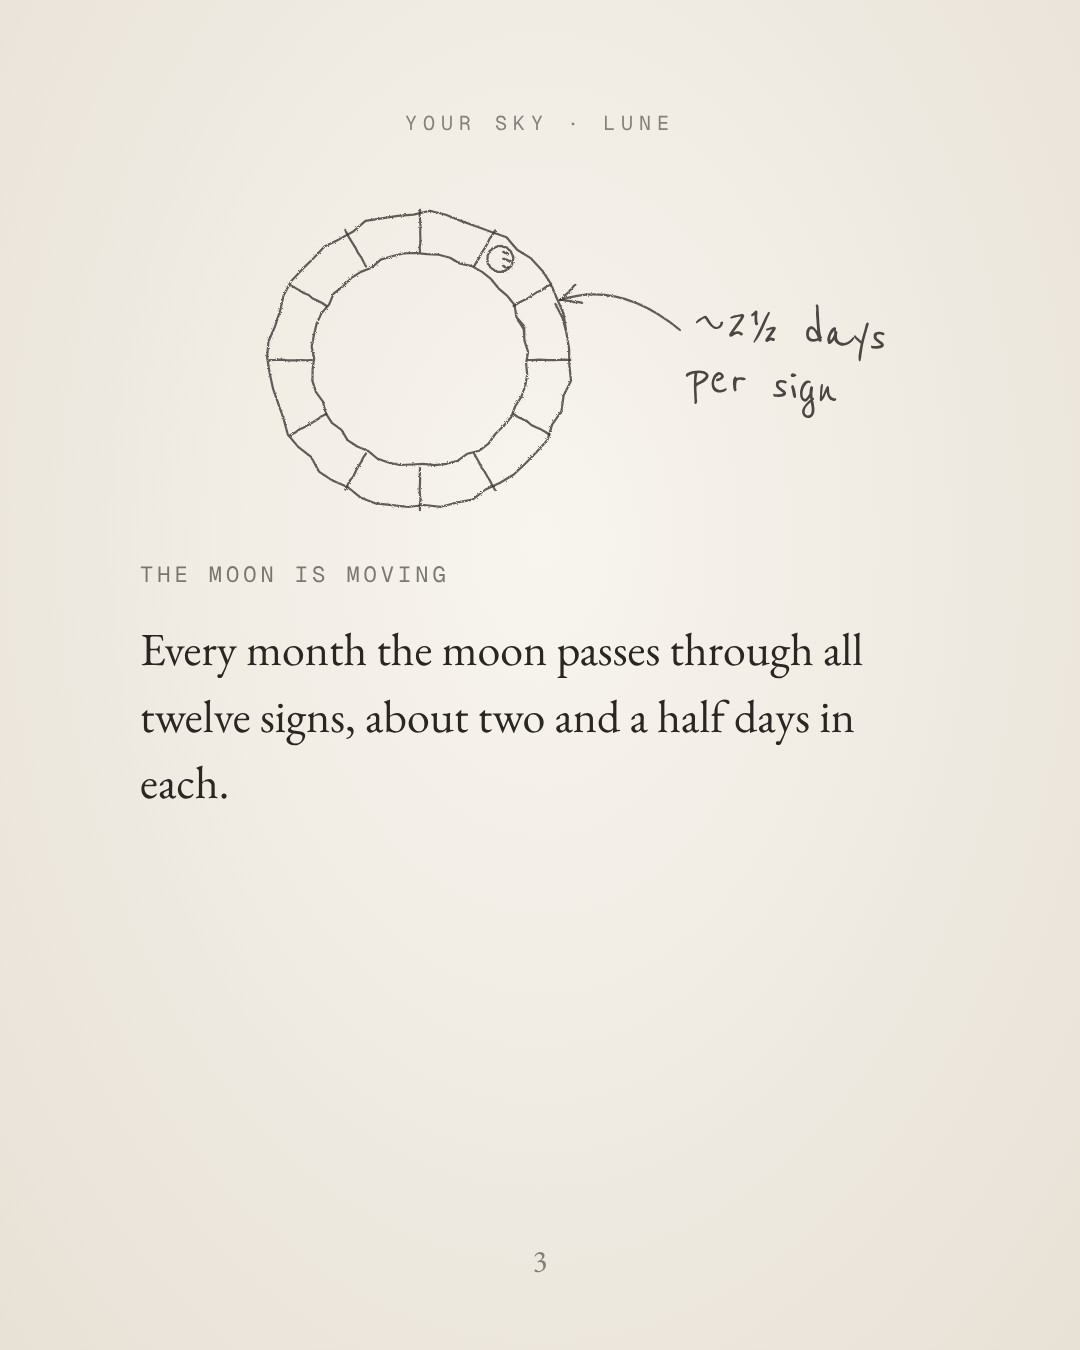
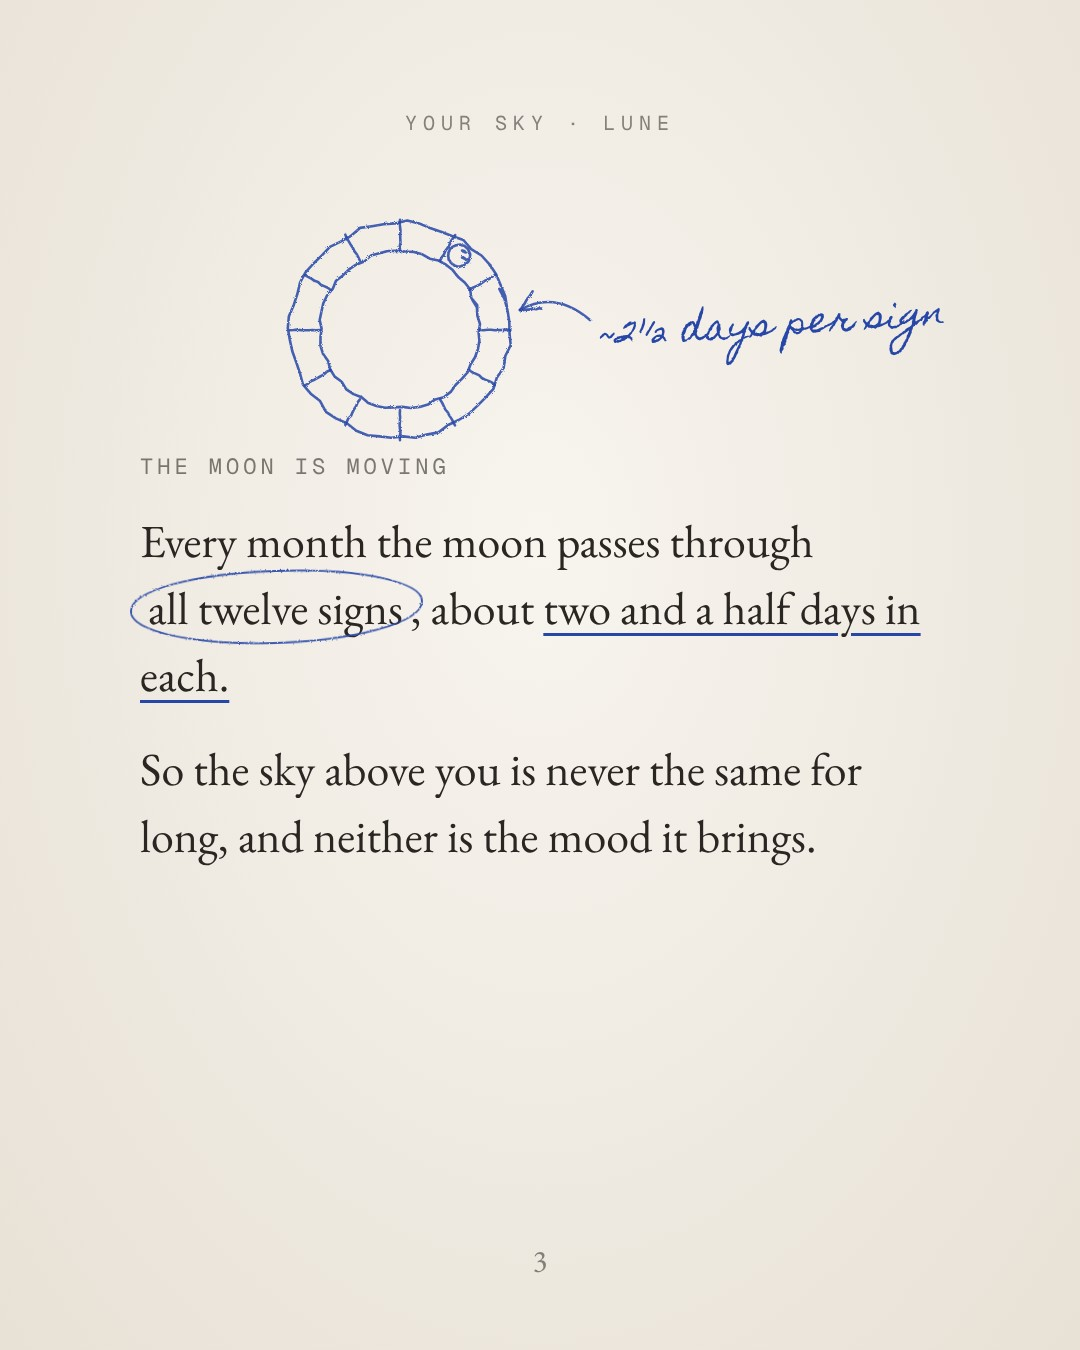
Step-by-step carousel: blue pen annotations, Homemade Apple handwriting
Claude-Session: https://claude.ai/code/session_01RcPwiV74pTBPtN1QyzzEVg

diff --git a/templates/passo-a-passo/book.html b/templates/passo-a-passo/book.html
@@ -21,7 +21,16 @@ svg.sk{position:absolute;inset:0;width:1080px;height:1350px;pointer-events:none}
 .sk path,.sk circle,.sk line{fill:none;stroke:#3f3b37;stroke-width:2.2;stroke-linecap:round;stroke-linejoin:round;opacity:.82}
 .src{font-family:M;font-size:18px;letter-spacing:2px;color:rgba(42,38,34,.5)}
 .logo{width:110px;filter:invert(1) brightness(.25);margin-bottom:30px}
-</style></head><body><div class="run">YOUR SKY · LUNE</div><div id="root"></div><svg class="sk" id="sk"><defs><filter id="pc"><feTurbulence type="fractalNoise" baseFrequency="1.2" numOctaves="2" seed="3"/><feDisplacementMap in="SourceGraphic" scale="2.6"/></filter></defs><g id="g" filter="url(#pc)"></g></svg><div class="pg" id="pg"></div>
+
+.u{text-decoration:underline;text-decoration-color:#2747A8;text-decoration-thickness:2.6px;text-underline-offset:9px}
+.c{position:relative;white-space:nowrap;margin:0 8px}.c:after{content:"";position:absolute;inset:-8px -20px -6px -18px;border:2.6px solid #2747A8;border-radius:50% 46% 52% 48%;transform:rotate(-1.5deg);filter:url(#pc);opacity:.9}
+.br{border-left:2.6px solid #2747A8;padding-left:22px;margin-left:-26px;filter:none}
+.pen{position:absolute;font-family:C;font-size:46px;color:#2747A8;line-height:1.05;white-space:nowrap}
+.pen.v{transform-origin:left top}
+.hand{display:none}
+.sk path,.sk circle,.sk line{stroke:#2747A8 !important;opacity:.85 !important;stroke-width:2.6 !important}
+@font-face{font-family:'homemade-apple';src:url(homemade-apple-latin-400-normal.woff2)}@font-face{font-family:'la-belle-aurore';src:url(la-belle-aurore-latin-400-normal.woff2)}@font-face{font-family:'nothing-you-could-do';src:url(nothing-you-could-do-latin-400-normal.woff2)}@font-face{font-family:'cedarville-cursive';src:url(cedarville-cursive-latin-400-normal.woff2)}@font-face{font-family:'zeyada';src:url(zeyada-latin-400-normal.woff2)}
+.pen{font-family:'homemade-apple'!important;font-size:36px!important;line-height:1.5!important}</style></head><body><div class="run">YOUR SKY · LUNE</div><div id="root"></div><svg class="sk" id="sk"><defs><filter id="pc"><feTurbulence type="fractalNoise" baseFrequency="1.2" numOctaves="2" seed="3"/><feDisplacementMap in="SourceGraphic" scale="2.6"/></filter></defs><g id="g" filter="url(#pc)"></g></svg><div class="pg" id="pg"></div>
 <script>
 let seed=7;function r(){seed=(seed*9301+49297)%233280;return seed/233280}
 function wob(cx,cy,R,turn=1.08,j=.035){let d='',n=60;for(let i=0;i<=n;i++){const a=i/n*Math.PI*2*turn-0.4;const rr=R*(1+(r()-.5)*j*2);d+=(i?'L':'M')+(cx+rr*Math.cos(a)).toFixed(1)+' '+(cy+rr*Math.sin(a)*0.98).toFixed(1)}return `<path d="${d}"/>`}
@@ -32,22 +41,22 @@ function moon(cx,cy,R,frac,side){return wob(cx,cy,R,1.04,.03)+(frac>0?hatch(cx,c
 function star(x,y,s){return line(x-s,y,x+s,y,1)+line(x,y-s,x,y+s,1)}
 function wave(x,y,w,amp){let d=`M${x} ${y}`;for(let i=1;i<=40;i++){const t=i/40;d+=` L${(x+w*t).toFixed(1)} ${(y+Math.sin(t*Math.PI*3)*amp*(0.6+0.4*Math.sin(t*5))+ (r()-.5)*2).toFixed(1)}`}return `<path d="${d}"/>`}
 const P=[
-{h:`<div class="wrap"><h1>Why you feel <i>different</i> every few days</h1><p style="margin-top:40px">and what the moon has to do with it.</p></div><div class="hand" style="left:600px;top:1010px;transform:rotate(-5deg)">it's not just you ♡</div>`,
- s:()=>{let s='';const xs=[260,390,520,650,780];const f=[1,.6,0,.6,1];xs.forEach((x,i)=>s+=moon(x,300,40,f[i]*0.5+(i==2?0:0),i<2?1:-1));s+=arrow(250,375,780,375,515,410);s+=star(880,250,12)+star(180,420,8);return s}},
-{h:`<div class="wrap"><div class="lab">WHAT'S ACTUALLY HAPPENING?</div><p>Ever woken up calm, and two days later felt restless, with nothing in your life changing?</p></div><div class="hand" style="left:560px;top:1000px;transform:rotate(-4deg)">me, every month.</div>`,
- s:()=>wave(150,930,780,38)+line(150,990,930,990,2)+`<g>${star(250,880,7)}</g>`},
-{h:`<div class="wrap" style="inset:560px 140px 220px;justify-content:flex-start"><div class="lab">THE MOON IS MOVING</div><p>Every month the moon passes through all twelve signs, about two and a half days in each.</p></div><div class="hand" style="left:690px;top:300px;transform:rotate(6deg)">~2½ days<br>per sign</div>`,
- s:()=>{let s=wob(420,360,150,1.03,.02)+wob(420,360,108,1.03,.02);for(let k=0;k<12;k++){const a=k/12*Math.PI*2;s+=line(420+108*Math.cos(a),360+108*Math.sin(a),420+150*Math.cos(a),360+150*Math.sin(a),1)}s+=moon(420+129*Math.cos(-.9),360+129*Math.sin(-.9),13,.5,1);s+=arrow(680,330,560,300,620,280);return s}},
-{h:`<div class="wrap"><div class="lab">EACH SIGN HAS A MOOD</div><p>In astrology, the sign the moon is in colours the mood of those days.</p><div class="row"><span class="n">♋</span>Cancer days feel tender.</div><div class="row"><span class="n">♈</span>Aries days feel restless.</div><div class="row"><span class="n">♉</span>Taurus days ask for comfort.</div><div class="row"><span class="n">♓</span>Pisces days feel dreamy.</div></div><div class="hand" style="left:600px;top:1085px;transform:rotate(-5deg)">which one is today?</div>`,
- s:()=>arrow(590,1100,470,1050,510,1100)},
-{h:`<div class="wrap"><div class="lab">YOUR OWN MOON</div><p>You also have a Moon sign: where the moon was when you were born. It shows how you feel, and what helps you feel safe.</p><p>When the moon returns to it, your feelings come closer to the surface.</p></div><div class="hand" style="left:610px;top:290px;transform:rotate(-6deg)">you need your<br>birth time!</div>`,
- s:()=>moon(330,330,62,.62,1)+star(450,270,9)+arrow(600,330,420,335,510,300)},
-{h:`<div class="wrap"><div class="lab">YOUR MIND IS PART OF IT</div><p>The brain notices what it's looking for. When you know the energy of the day, you meet it with care instead of blaming yourself.</p><div class="src">SELECTIVE ATTENTION · SIMONS &amp; CHABRIS, 1999</div></div><div class="hand" style="left:180px;top:1050px;transform:rotate(-3deg)">be kind to you ♡</div>`,
- s:()=>{let s=`<path d="M440 330 Q540 250 640 330 Q540 410 440 330"/>`+wob(540,330,34,1.05,.04)+hatch(540,330,16,1,1);for(let k=0;k<7;k++){const a=-Math.PI*0.15-k*Math.PI*0.7/6;s+=line(540+70*Math.cos(a),300+70*Math.sin(a),540+92*Math.cos(a),300+92*Math.sin(a),1)}return s}},
-{h:`<div class="wrap"><div class="lab">HOW TO USE IT</div><div class="row"><span class="n">01</span>Find your Moon sign.</div><div class="row"><span class="n">02</span>Check which sign the moon is in today.</div><div class="row"><span class="n">03</span>Choose one small ritual for that energy.</div></div><div class="hand" style="left:200px;top:1040px;transform:rotate(-3deg)">three small steps. that's it.</div>`,
- s:()=>moon(540,320,48,.3,-1)+star(650,270,9)+star(430,380,7)},
-{h:`<div class="wrap" style="align-items:center;text-align:center"><img class="logo" src="lune-logo-white.svg"><h1 style="font-size:84px">Your sky is the <i>reading.</i></h1><p style="margin-top:36px">Lune: Moon Rituals does steps 2 and 3 for you. It reads your sky and builds a ritual for each moon.</p><div class="lab" style="margin-top:10px">JOIN THE WAITLIST · LINK IN BIO</div></div><div class="hand" style="left:650px;top:1070px;transform:rotate(-5deg)">see you there ☾</div>`,
- s:()=>star(250,330,12)+star(840,300,9)+star(860,960,7)}
+{h:`<div class="wrap"><h1>Why you feel <i>different</i> every few days</h1><p style="margin-top:40px">and what the moon has to do with it.</p></div><div class="pen" style="left:150px;top:1040px;transform:rotate(-3deg)">a page for everyone who thought it was "just me"...</div>`,
+ s:()=>{let s='';const xs=[260,390,520,650,780];const f=[1,.6,0,.6,1];xs.forEach((x,i)=>s+=moon(x,330,40,f[i]*0.5,i<2?1:-1));s+=arrow(250,405,780,405,515,440);return s}},
+{h:`<div class="wrap"><div class="lab">WHAT'S ACTUALLY HAPPENING?</div><p>Ever woken up <span class="c">calm</span>, and two days later felt <span class="c">restless</span>, with <span class="u">nothing in your life changing?</span></p><p>You blame the weather, the coffee, yourself. Most of all, yourself.</p></div><div class="pen" style="left:140px;top:1060px;transform:rotate(-2deg)">me. every. month.</div><div class="pen v" style="left:1000px;top:400px;transform:rotate(90deg)">be gentle, it's not a flaw →</div>`,
+ s:()=>''},
+{h:`<div class="wrap"><div class="lab">THE MOON IS MOVING</div><p>Every month the moon passes through <span class="c">all twelve signs</span>, about <span class="u">two and a half days in each.</span></p><p>So the sky above you is never the same for long, and neither is the mood it brings.</p></div><div class="pen" style="left:600px;top:300px;transform:rotate(-4deg)">~2½ days per sign</div>`,
+ s:()=>{let s=wob(400,330,110,1.03,.02)+wob(400,330,80,1.03,.02);for(let k=0;k<12;k++){const a=k/12*Math.PI*2;s+=line(400+80*Math.cos(a),330+80*Math.sin(a),400+110*Math.cos(a),330+110*Math.sin(a),1)}s+=moon(400+95*Math.cos(-.9),330+95*Math.sin(-.9),11,.5,1);s+=arrow(590,320,520,310,555,290);return s}},
+{h:`<div class="wrap"><div class="lab">EACH SIGN HAS A MOOD</div><p>In astrology, the sign the moon is in <span class="u">colours the mood</span> of those days.</p><div class="br"><div class="row"><span class="n">♋</span>Cancer days feel tender.</div><div class="row"><span class="n">♈</span>Aries days feel restless.</div><div class="row"><span class="n">♉</span>Taurus days ask for comfort.</div><div class="row" style="margin-bottom:0"><span class="n">♓</span>Pisces days feel dreamy.</div></div></div><div class="pen" style="left:610px;top:1075px;transform:rotate(-4deg)">which one is today?</div>`,
+ s:()=>''},
+{h:`<div class="wrap"><div class="lab">YOUR OWN MOON</div><p>You also have a <span class="c">Moon sign</span>: where the moon was when you were born. It shows <span class="u">how you feel, and what helps you feel safe.</span></p><p>When the moon returns to it, your feelings come <span class="u">closer to the surface.</span></p></div><div class="pen" style="left:560px;top:300px;transform:rotate(-5deg)">you need your birth time!</div><div class="pen v" style="left:1000px;top:560px;transform:rotate(90deg)">that's why some days hit harder ↓</div>`,
+ s:()=>arrow(650,350,520,470,560,390)},
+{h:`<div class="wrap"><div class="lab">YOUR MIND IS PART OF IT</div><p>The brain <span class="c">notices</span> what it's looking for.</p><p>When you know the energy of the day, you meet it <span class="u">with care instead of blaming yourself.</span></p><div class="src">SELECTIVE ATTENTION · SIMONS &amp; CHABRIS, 1999</div></div><div class="pen" style="left:150px;top:1060px;transform:rotate(-3deg)">knowing is a kind of kindness ♡</div>`,
+ s:()=>''},
+{h:`<div class="wrap"><div class="lab">HOW TO USE IT</div><div class="row"><span class="n">01</span><span class="u">Find your Moon sign.</span></div><div class="row"><span class="n">02</span>Check which sign the moon is in today.</div><div class="row"><span class="n">03</span>Choose <span class="c">one small</span>&nbsp;ritual for that energy.</div></div><div class="pen" style="left:150px;top:1050px;transform:rotate(-3deg)">three small steps. that's it.</div><div class="pen" style="left:600px;top:520px;transform:rotate(-6deg)">start here ↓</div>`,
+ s:()=>''},
+{h:`<div class="wrap" style="align-items:center;text-align:center"><img class="logo" src="lune-logo-white.svg"><h1 style="font-size:84px">Your sky is the <i>reading.</i></h1><p style="margin-top:36px">Lune: Moon Rituals does <span class="u">steps 2 and 3 for you.</span> It reads your sky and builds a ritual for each moon.</p><div class="lab" style="margin-top:10px">JOIN THE WAITLIST · LINK IN BIO</div></div><div class="pen" style="left:620px;top:1080px;transform:rotate(-5deg)">see you there ☾</div>`,
+ s:()=>''}
 ];
 function render(i){seed=11+i*17;document.getElementById('root').innerHTML=P[i].h;document.getElementById('g').innerHTML=P[i].s();document.getElementById('pg').textContent=(i+1)}
 </script></body></html>
